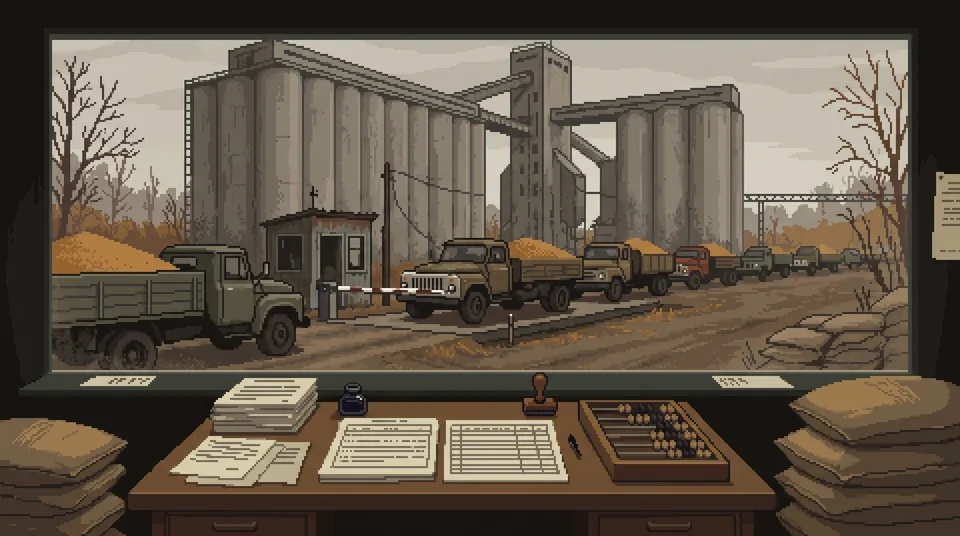
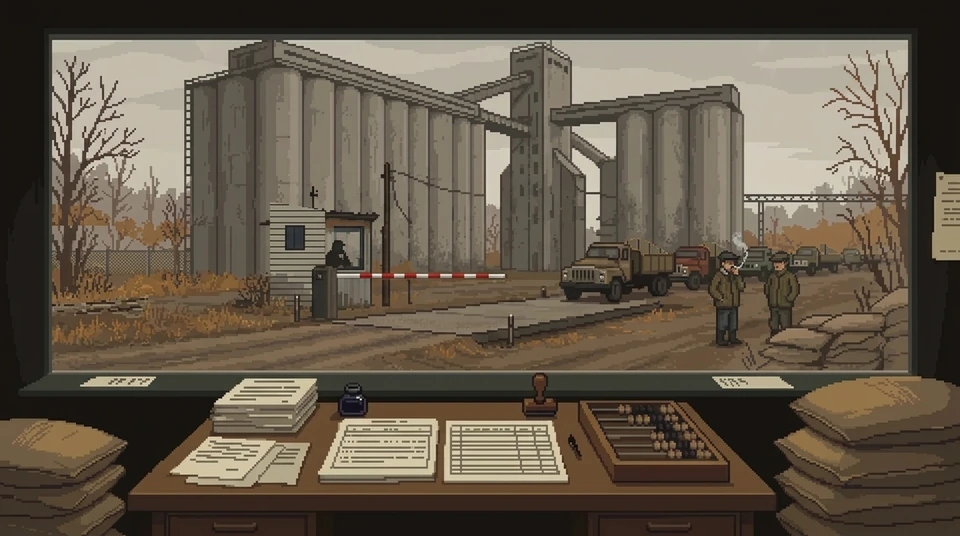
fix(art): перерисовать завязку элеватора harvest и исходы зернового кризиса (#289)

diff --git a/web/lib/client/historical-art.ts b/web/lib/client/historical-art.ts
@@ -138,15 +138,10 @@ export function historicalResultArt(state: GameState, scene: SceneKey): Historic
     }
   }
   if (completed?.title === harvestCard.title) {
-    if (completed.choice === harvestCard.choices[0].text) {
-      return completed.success ? HISTORICAL_OUTCOME_ART.harvestSubsidy : HISTORICAL_SCENE_ART.harvest;
-    }
-    if (completed.choice === harvestCard.choices[1].text) {
-      return completed.success ? HISTORICAL_OUTCOME_ART.harvestDirect : HISTORICAL_SCENE_ART.harvest;
-    }
-    if (completed.choice === harvestCard.choices[2].text) {
-      return completed.success ? HISTORICAL_OUTCOME_ART.harvestCredit : HISTORICAL_SCENE_ART.harvest;
-    }
+    if (completed.success === false) return HISTORICAL_OUTCOME_ART.harvestRot;
+    if (completed.choice === harvestCard.choices[0].text) return HISTORICAL_OUTCOME_ART.harvestSubsidy;
+    if (completed.choice === harvestCard.choices[1].text) return HISTORICAL_OUTCOME_ART.harvestDirect;
+    if (completed.choice === harvestCard.choices[2].text) return HISTORICAL_OUTCOME_ART.harvestCredit;
   }
   if (completed?.title === fuelCard.title) {
     if (completed.choice === fuelCard.choices[0].text) {

diff --git a/web/lib/client/historical-art.test.ts b/web/lib/client/historical-art.test.ts
@@ -172,7 +172,7 @@ test('first crisis and election night resolve authorial outcome scenes', async (
     const successState = { ...base, history: [{ year: 1978, title: harvestCard.title, choice: choice.text, headline: '', historianNote: '', success: true }] };
     assert.deepEqual(historicalResultArt(successState, 'field'), expectedHarvestSuccess[idx]);
     const failState = { ...base, history: [{ year: 1978, title: harvestCard.title, choice: choice.text, headline: '', historianNote: '', success: false }] };
-    assert.deepEqual(historicalResultArt(failState, 'field'), HISTORICAL_SCENE_ART.harvest);
+    assert.deepEqual(historicalResultArt(failState, 'field'), HISTORICAL_OUTCOME_ART.harvestRot);
   }
   const fuelCard = ALTERNATE_EVENTS.find(c => c.id === 'alt_fuel')!;
   const expectedFuelSuccess = [

diff --git a/docs/gemini-harvest-manifest.md b/docs/gemini-harvest-manifest.md
@@ -1,36 +1,45 @@
 # Манифест пакета `alt_harvest` — Зерновой кризис и урожай 1978 года
 
-- Дата: 23 октября 2026
+- Дата: 23–27 октября 2026
 - Исполнитель: Gemini (дизайн, арт и визуальный ритм)
 - Стиль: 16-битный ретро пиксель-арт канона Неманской республики 1978 (`wages-gate`, `district-completed`, `bridge-toll`)
 - Контактный лист: [`docs/gemini-harvest-contact.jpg`](gemini-harvest-contact.jpg)
 - Целевое дело: Ход 4, Неманская республика (`alt_harvest`, «Закупочная цена зерна у элеватора»)
+- Исправление замечания [#289](https://github.com/kirgoncharov-eng/sovereign-v2/issues/289):
+  1. Устранено встречное движение грузовиков в один шлагбаум.
+  2. Завязка приведена в точное соответствие с текстом дела («Хозяйства Лугового округа отказываются отгружать рожь на элеваторы по старым расценкам»): пустой двор элеватора, пустая весовая платформа, закрытый полосатый шлагбаум, скучающий приёмщик в будке, грузовики хозяйств припаркованы на обочине с укрытыми брезентом кузовами, водители стоят у машин в стачке (один курит).
+  3. Для исхода срыва закупки зерна в `historicalResultArt` подключен `harvestRot` вместо дублирования завязочной картинки.
 
 ## Состав ассетов
 
-| Игровой файл (`web/public/art/gemini-next/`) | Исходник (`art-source/gemini-next/`) | Разрешение | Размер | Назначение / Исход |
+| Игровой файл (`web/public/art/`) | Исходник (`art-source/`) | Разрешение | Размер | Назначение / Исход |
 |---|---|---|---|---|
-| `harvest-subsidy.webp` | `harvest-subsidy.jpg` | 960×536 (16:9) | 39.3 КБ | Выбор 1 (успех): Повысить цену и субсидировать хлеб (бетонный элеватор, советские самосвалы ссыпают зерно в завальную яму) |
-| `harvest-direct.webp` | `harvest-direct.jpg` | 960×536 (16:9) | 54.7 КБ | Выбор 2 (успех): Прямые договоры с пекарнями (утренняя пекарня, разгрузка мешков муки с бортового грузовика) |
-| `harvest-credit.webp` | `harvest-credit.jpg` | 960×536 (16:9) | 36.1 КБ | Выбор 3 (успех): Сезонная ссуда областного банка (кабинет сельхозбанка, зеленая лампа, счеты, расписки) |
-| `harvest-rot.webp` | `harvest-rot.jpg` | 960×536 (16:9) | 40.6 КБ | Резервный авторский арт (полевой ток под осенним дождём, промокшие мешки, колеи грязи, брошенный комбайн) |
+| `scenes/harvest.webp` | `scenes/harvest.jpg` | 960×536 (16:9) | 77.5 КБ | Завязка дела `alt_harvest`: пустой двор элеватора, закрытый шлагбаум, стачка хозяйств |
+| `gemini-next/harvest-subsidy.webp` | `gemini-next/harvest-subsidy.jpg` | 960×536 (16:9) | 39.3 КБ | Выбор 1 (успех): Повысить цену и субсидировать хлеб (бетонный элеватор, советские самосвалы ссыпают зерно в завальную яму) |
+| `gemini-next/harvest-direct.webp` | `gemini-next/harvest-direct.jpg` | 960×536 (16:9) | 54.7 КБ | Выбор 2 (успех): Прямые договоры с пекарнями (утренняя пекарня, разгрузка мешков муки с бортового грузовика) |
+| `gemini-next/harvest-credit.webp` | `gemini-next/harvest-credit.jpg` | 960×536 (16:9) | 36.1 КБ | Выбор 3 (успех): Сезонная ссуда областного банка (кабинет сельхозбанка, зеленая лампа, счеты, расписки) |
+| `gemini-next/harvest-rot.webp` | `gemini-next/harvest-rot.jpg` | 960×536 (16:9) | 40.6 КБ | Исход неудачи закупки: сорванная закупка зерна, промокшие мешки и брошенная техника в поле под дождём |
 
 ## Точные правила показа исходов (`historicalResultArt`)
 
-В соответствии с замечанием GPT/Codex (P2) газета не усиливает последствия картинкой, если текст описывает распределительные задержки, а не гниение урожая:
+В соответствии с задачей #289 и каноном газеты:
 
-1. **Выбор 1 («Повысить цену и защитить дешёвый хлеб субсидией»):**
+1. **Завязка дела (`alt_harvest`):**
+   - `HISTORICAL_SCENE_ART.harvest` («Закупка зерна у элеватора», забастовка хозяйств)
+2. **Выбор 1 («Повысить цену и защитить дешёвый хлеб субсидией»):**
    - Успех: `HISTORICAL_OUTCOME_ART.harvestSubsidy` («Государственная приёмка зерна на центральном элеваторе»)
-   - Провал (субсидия не дошла до районных пекарен, хлеб подорожал): нейтральный рабочий вид `HISTORICAL_SCENE_ART.harvest` («Закупка зерна у элеватора»)
-2. **Выбор 2 («Разрешить хозяйствам прямые договоры с пекарнями»):**
+   - Провал: `HISTORICAL_OUTCOME_ART.harvestRot` («Сорванная закупка зерна и брошенная техника под дождём»)
+3. **Выбор 2 («Разрешить хозяйствам прямые договоры с пекарнями»):**
    - Успех: `HISTORICAL_OUTCOME_ART.harvestDirect` («Разгрузка муки нового урожая у городской пекарни»)
-   - Провал (крупные пекарни скупили лучшее, малые остались без зерна): нейтральный рабочий вид `HISTORICAL_SCENE_ART.harvest` («Закупка зерна у элеватора»)
-3. **Выбор 3 («Оставить цену и дать сезонную ссуду»):**
+   - Провал: `HISTORICAL_OUTCOME_ART.harvestRot` («Сорванная закупка зерна и брошенная техника под дождём»)
+4. **Выбор 3 («Оставить цену и дать сезонную ссуду»):**
    - Успех: `HISTORICAL_OUTCOME_ART.harvestCredit` («Оформление кредитных расписок в отделении сельхозбанка»)
-   - Провал (ссуда досталась прежним должникам банка, малые хозяйства убирают без топлива): нейтральный рабочий вид `HISTORICAL_SCENE_ART.harvest` («Закупка зерна у элеватора»)
+   - Провал: `HISTORICAL_OUTCOME_ART.harvestRot` («Сорванная закупка зерна и брошенная техника под дождём»)
 
 ## Контрольные суммы SHA-256
 
[5 lines of base64/hex data omitted]
@@ -39,4 +48,4 @@
[5 lines of base64/hex data omitted]
